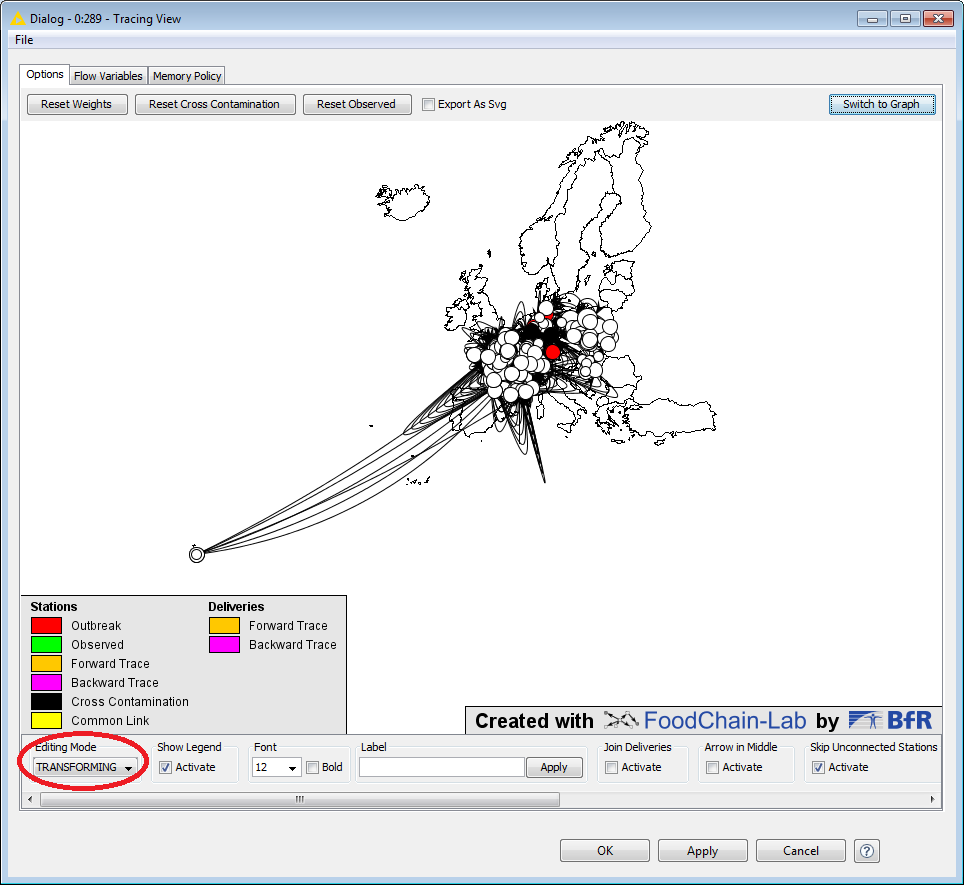
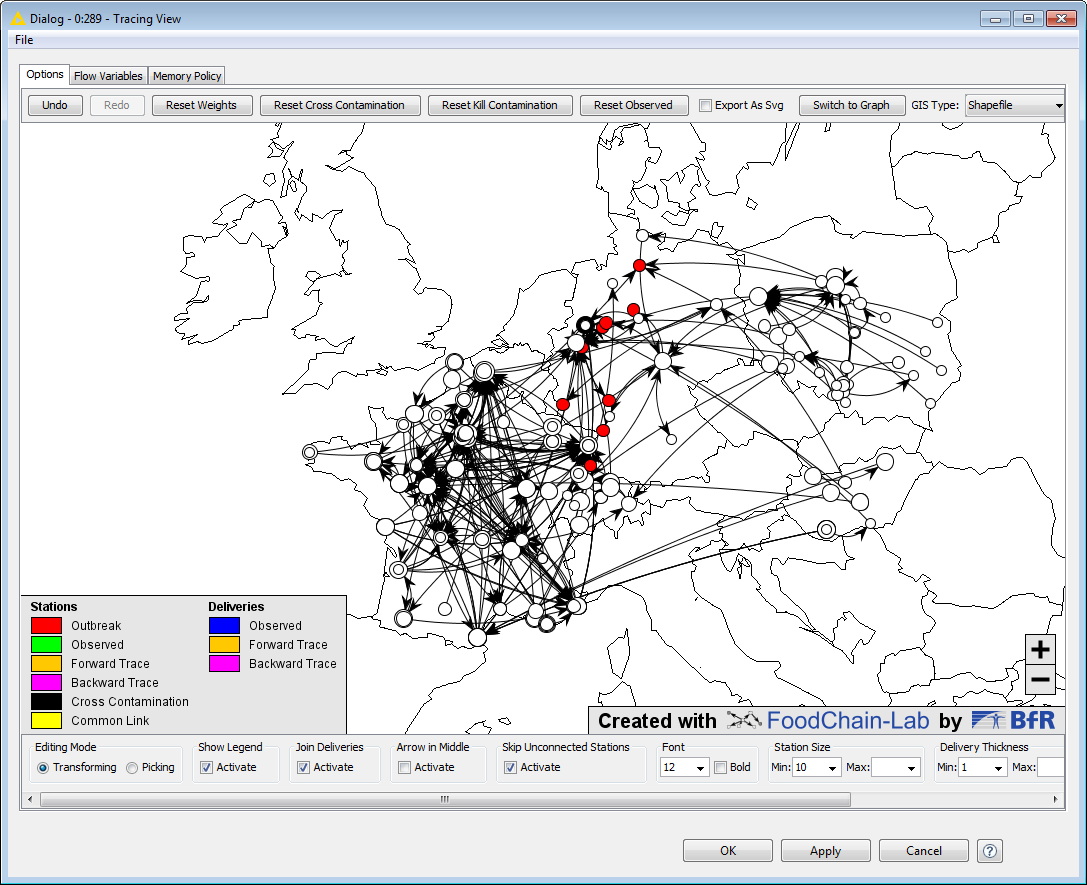
geoview tutorial updated

diff --git a/GitHubPages/documents/foodchainlab_geoview/geoview_DE.tex b/GitHubPages/documents/foodchainlab_geoview/geoview_DE.tex
@@ -16,7 +16,7 @@
 \section{Aufgaben}
 \begin{frame}
 	\begin{itemize}
-		\item Nutzen Sie folgenden Workflow: \url{https://github.com/SiLeBAT/BfROpenLabResources/raw/master/GitHubPages/workflows/Example_Workflow.zip}.
+		\item Nutzen Sie folgenden Workflow: \url{https://github.com/SiLeBAT/BfROpenLabResources/raw/master/GitHubPages/workflows/FCL_Example.zip}.
 		\item Schauen Sie sich das Liefernetzwerk in der geographischen Ansicht vom \textbf{Tracing View} an.
 		\item Selektieren Sie alle Stationen in Polen und schauen Sie sich dann an wo sich diese Stationen in der graphischen Ansicht befinden.
 	\end{itemize}
@@ -28,7 +28,7 @@
   		\includegraphics[height=0.6\textheight]{1.png}
 	\end{center}
 	\begin{itemize}
-		\item Importieren Sie den Example Workflow von \url{https://github.com/SiLeBAT/BfROpenLabResources/raw/master/GitHubPages/workflows/Example_Workflow.zip}.
+		\item Importieren Sie den Example Workflow von \url{https://github.com/SiLeBAT/BfROpenLabResources/raw/master/GitHubPages/workflows/FCL_Example.zip}.
 		\item Öffnen Sie den \textbf{Tracing View} per Doppelklick.
 	\end{itemize}
 \end{frame}
@@ -50,7 +50,8 @@
   		\includegraphics[height=0.6\textheight]{3.png}
 	\end{center}
 	\begin{itemize}
-		\item Um auf auf ein bestimmtes Gebiet zu zoomen wählen Sie "TRANSFORMING" als \textbf{Editing Mode} und nutzen Sie das Mausrad und die linke Maustaste zum Zoomen und Bewegen des Graphen (funktioniert wie in Google Maps).
+		\item Zur geographischen Visualisierung werden die Umrisse von Staaten genutzt, welche aus der Shapefile gelesen wurden.
+		\item Um auf auf ein bestimmtes Gebiet zu zoomen wählen Sie "Transforming" als \textbf{Editing Mode} und nutzen Sie das Mausrad und die linke Maustaste zum Zoomen und Bewegen des Graphen (funktioniert wie in Google Maps).
 	\end{itemize}
 \end{frame}
 
@@ -60,7 +61,9 @@
   		\includegraphics[height=0.6\textheight]{4.png}
 	\end{center}
 	\begin{itemize}
-		\item Hier sehen Sie das Liefernetz in Zentraleuropa.
+		\item Falls sie mit dem Internet verbunden sind, können sie die Art der Visualisierung ändern.
+		\item Wählen sie "Mapnik" als \textbf{GIS Type}.
+		\item Nun sehen sie eine Visualisierung mit OpenStreetMap Daten.
 	\end{itemize}
 \end{frame}
 
@@ -71,7 +74,7 @@
 	\end{center}
 	\begin{itemize}
 		\item Wir können nun Station aufgrund ihrer geographischen Lage auswählen.
-		\item Setzen Sie "PICKING" als \textbf{Editing Mode} and wählen Sie alle Stationen in Polen aus, indem Sie ein Rechteck um diese Stationen ziehen.
+		\item Setzen Sie "Picking" als \textbf{Editing Mode} and wählen Sie alle Stationen in Polen aus, indem Sie ein Rechteck um diese Stationen ziehen.
 		\item The gewählten Stationen sollten nun blau markiert sein.
 		\item Wechseln Sie zurück zur graphischen Ansicht, indem Sie rechts oben \textbf{Switch to Graph} klicken.
 	\end{itemize}
@@ -96,7 +99,7 @@
 	\end{center}
 	\begin{itemize}
 		\item Nun wählen wir ein "Cluster" von Stationen in der graphischen Ansicht und schauen uns dann die geographische Lage der Stationen an.
-		\item Also wählen Sie das "Cluster" in der rechten oberen Ecke und klicken Sie \textbf{Switch to GIS}.
+		\item Also wählen Sie das "Cluster" im roten Kreis und klicken Sie \textbf{Switch to GIS}.
 	\end{itemize}
 \end{frame}
 

diff --git a/GitHubPages/documents/foodchainlab_geoview/geoview.tex b/GitHubPages/documents/foodchainlab_geoview/geoview.tex
@@ -12,6 +12,15 @@
  
 \begin{document}
 \maketitle
+
+\section{Tasks}
+\begin{frame}
+	\begin{itemize}
+		\item Use the following workflow: \url{https://github.com/SiLeBAT/BfROpenLabResources/raw/master/GitHubPages/workflows/FCL_Example.zip}.
+		\item Visualize the delivery network in the GIS mode of the \textbf{Tracing View}.
+		\item Select all stations in Poland und check out where these stations are located in the Graph mode.
+	\end{itemize}
+\end{frame}
  
 \section{1}
 \begin{frame}
@@ -19,7 +28,7 @@
   		\includegraphics[height=0.6\textheight]{1.png}
 	\end{center}
 	\begin{itemize}
-		\item Import the Example Workflow from \url{https://github.com/SiLeBAT/BfROpenLabResources/raw/master/GitHubPages/workflows/Example_Workflow.zip}.
+		\item Import the Example Workflow from \url{https://github.com/SiLeBAT/BfROpenLabResources/raw/master/GitHubPages/workflows/FCL_Example.zip}.
 		\item Open the \textbf{Tracing View} by double-clicking on it.
 	\end{itemize}
 \end{frame}
@@ -41,7 +50,9 @@
   		\includegraphics[height=0.6\textheight]{3.png}
 	\end{center}
 	\begin{itemize}
-		\item To zoom to a certain area of the graph select "TRANSFORMING" as \textbf{Editing Mode} and zoom/move the graph by using the mouse wheel and the left mouse button (works as in Google Maps).
+		\item The country borders, which where read from a shapefile, are used for geographical visualization.
+		\item To zoom to a certain area of the graph select "Transforming" as \textbf{Editing Mode} and zoom/move the graph by using the mouse wheel and the left mouse button (works as in Google Maps).
+		\it
 	\end{itemize}
 \end{frame}
 
@@ -51,7 +62,9 @@
   		\includegraphics[height=0.6\textheight]{4.png}
 	\end{center}
 	\begin{itemize}
-		\item Here you can see the deliveries in central Europe.
+		\item If you are online, you can change the type of visualization.
+		\item Select "Mapnik" as \textbf{GIS Type}.
+		\item Now you should see a visualization with OpenStreetMap data.
 	\end{itemize}
 \end{frame}
 
@@ -62,7 +75,7 @@
 	\end{center}
 	\begin{itemize}
 		\item We can now select certain stations based on geography.
-		\item Select "PICKING" as \textbf{Editing Mode} and select all stations in Poland by dragging a rect around the stations.
+		\item Select "Picking" as \textbf{Editing Mode} and select all stations in Poland by dragging a rect around the stations.
 		\item The selected stations are now colored blue.
 		\item Switch back to the graphical view by clicking \textbf{Switch to Graph} in the upper right corner.
 	\end{itemize}
@@ -86,7 +99,7 @@
 	\end{center}
 	\begin{itemize}
 		\item Lets now select a certain "cluster" in the graphical view and see where the stations are in the geographical view.
-		\item So select the "cluster" in the upper right corner and click \textbf{Switch to GIS}.
+		\item So select the "cluster" in the red circle and click \textbf{Switch to GIS}.
 	\end{itemize}
 \end{frame}
 
